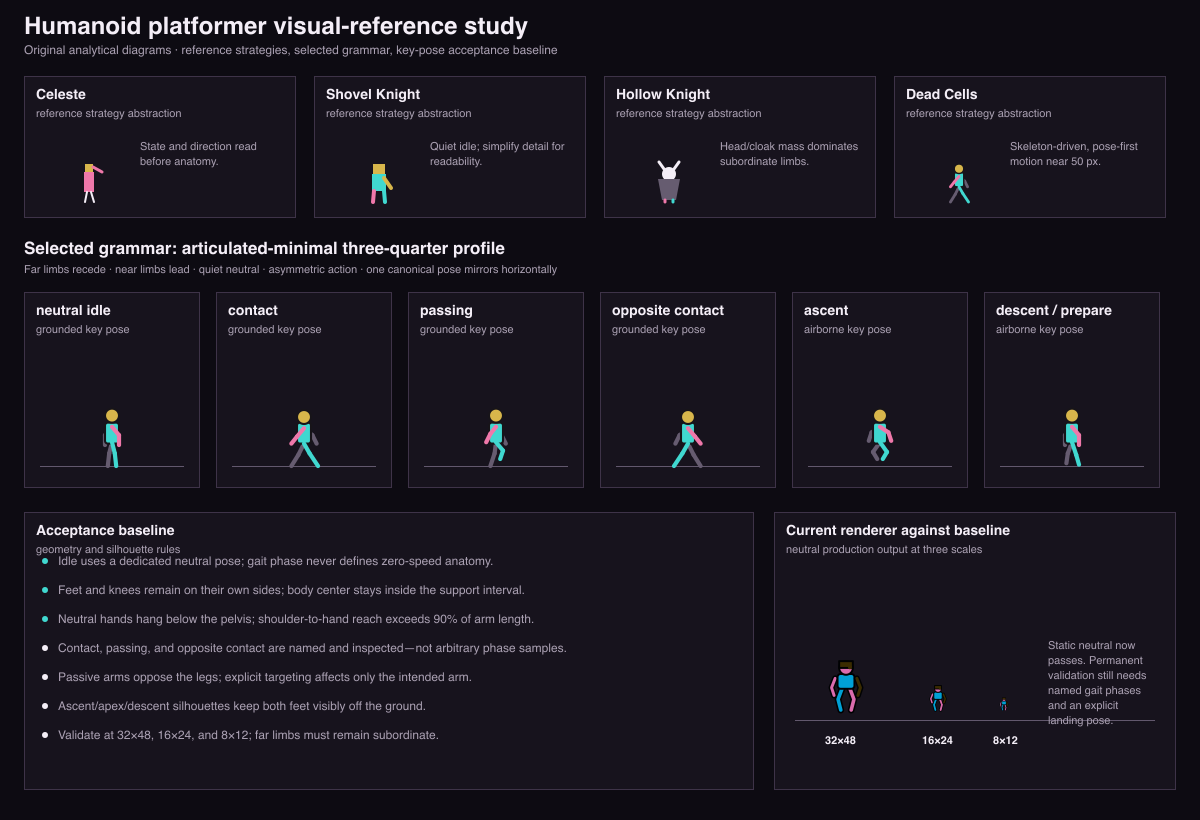
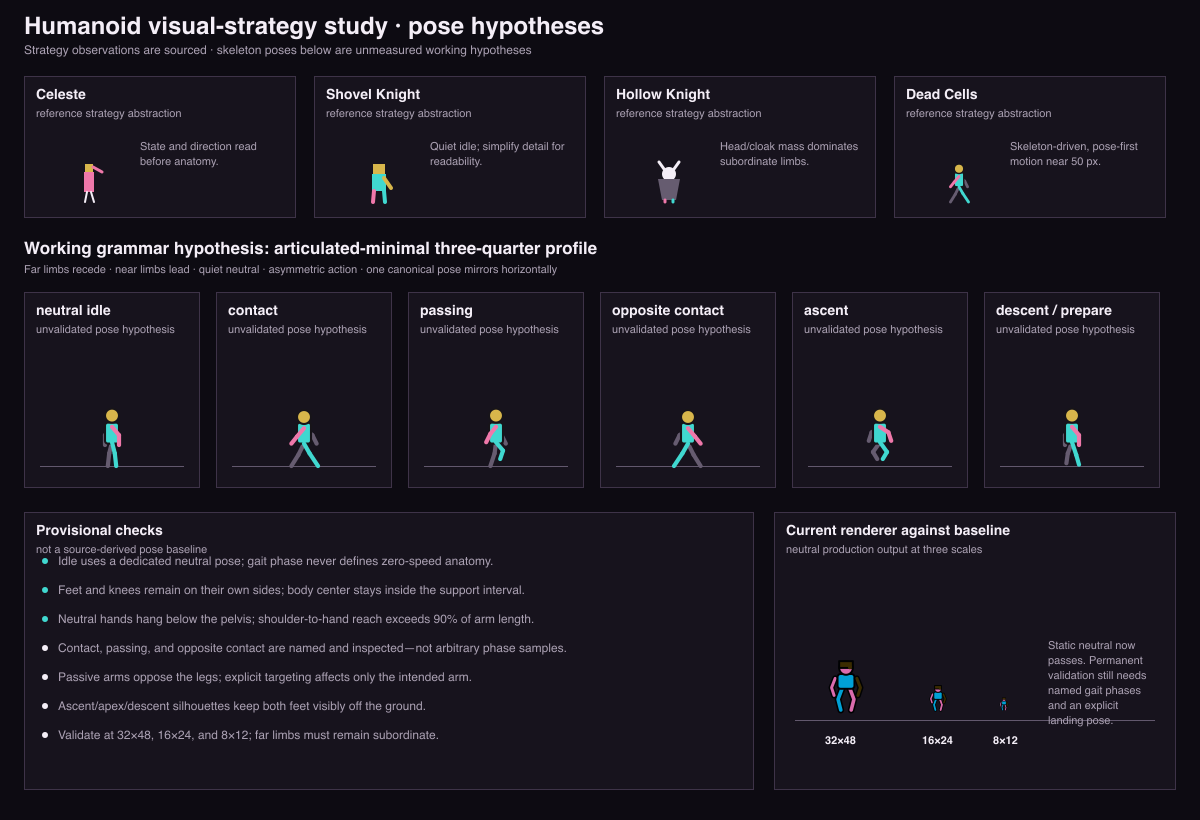
docs: add source-backed humanoid pose examples

diff --git a/benchmarks/_scripts/humanoid-reference-study-render.ts b/benchmarks/_scripts/humanoid-reference-study-render.ts
@@ -233,11 +233,11 @@ ctx.fillStyle = colors.background;
 ctx.fillRect(0, 0, WIDTH, HEIGHT);
 ctx.fillStyle = colors.text;
 ctx.font = 'bold 24px sans-serif';
-ctx.fillText('Humanoid platformer visual-reference study', 24, 34);
+ctx.fillText('Humanoid visual-strategy study · pose hypotheses', 24, 34);
 ctx.fillStyle = colors.muted;
 ctx.font = '12px sans-serif';
 ctx.fillText(
-  'Original analytical diagrams · reference strategies, selected grammar, key-pose acceptance baseline',
+  'Strategy observations are sourced · skeleton poses below are unmeasured working hypotheses',
   24,
   54,
 );
@@ -259,7 +259,7 @@ strategies.forEach(([title, kind, note], index) => {
 
 ctx.fillStyle = colors.text;
 ctx.font = 'bold 17px sans-serif';
-ctx.fillText('Selected grammar: articulated-minimal three-quarter profile', 24, 254);
+ctx.fillText('Working grammar hypothesis: articulated-minimal three-quarter profile', 24, 254);
 ctx.fillStyle = colors.muted;
 ctx.font = '11px sans-serif';
 ctx.fillText(
@@ -278,7 +278,7 @@ const keyPoses = [
 ] as const;
 keyPoses.forEach(([label, pose], index) => {
   const x = 24 + index * 192;
-  panel(ctx, x, 292, 176, 196, label, index < 4 ? 'grounded key pose' : 'airborne key pose');
+  panel(ctx, x, 292, 176, 196, label, 'unvalidated pose hypothesis');
   ctx.strokeStyle = colors.ground;
   ctx.beginPath();
   ctx.moveTo(x + 16, 466.5);
@@ -287,7 +287,7 @@ keyPoses.forEach(([label, pose], index) => {
   drawFigure(ctx, x + 88, 466, pose);
 });
 
-panel(ctx, 24, 512, 730, 278, 'Acceptance baseline', 'geometry and silhouette rules');
+panel(ctx, 24, 512, 730, 278, 'Provisional checks', 'not a source-derived pose baseline');
 const rules = [
   'Idle uses a dedicated neutral pose; gait phase never defines zero-speed anatomy.',
   'Feet and knees remain on their own sides; body center stays inside the support interval.',
@@ -343,4 +343,3 @@ if (!first.equals(repeat)) {
 }
 writeFileSync(OUTPUT, first);
 console.log(`ok ${OUTPUT} ${(first.byteLength / 1024).toFixed(1)} KB`);
-

diff --git a/docs/research/humanoid-platformer-visual-reference.md b/docs/research/humanoid-platformer-visual-reference.md
@@ -1,7 +1,7 @@
 # Humanoid Visual Reference for 2D Platformers
 
 > Investigated: 2026-07-29  
-> Status: **COMPLETE — validation baseline selected**
+> Status: **REVISED — strategy baseline selected; measured pose baseline pending**
 
 ## Question
 
@@ -14,9 +14,10 @@ standard. As a result, the first validation sheet compared the generated
 humanoid mainly against itself and failed to reject crossed idle legs and
 hands-on-hips arms.
 
-This note supplies the missing visual baseline. The accompanying
+This note supplies a visual-strategy baseline. The accompanying
 `benchmarks/character-body-plans/humanoid-reference-study.png` contains
-original analytical diagrams, not copied game sprites.
+original analytical diagrams, not copied game sprites. Those diagrams are pose
+hypotheses, not traced or measured reference poses.
 
 ## Evidence standard
 
@@ -115,6 +116,111 @@ What we do not adopt:
 
 - Collapsing the base humanoid into an opaque sprite-like mass at 32 × 48.
 
+## Pose-specific original examples acquired
+
+These sources expose complete or named source frames and are therefore more
+useful for pose validation than promotional screenshots.
+
+### Godot 2D Platformer robot — open source, state-mapped sheet
+
+The Godot demo repository includes an `8 × 8` robot sheet and the scene file
+that assigns exact frames:
+
+- run: frames `0–9`;
+- idle: frames `30–33`;
+- jump: frame `45`;
+- fall: frame `48`;
+- separate weapon variants are also named.
+
+This is the strongest current source for identifying real contact/passing
+frames and comparing jump against fall. The run leans into travel, separates
+the feet strongly, and uses opposing arm/leg motion. Jump and fall are different
+silhouettes rather than a walking pose lifted off the floor.
+
+Sources:
+
+- [Godot robot sheet](https://github.com/godotengine/godot-demo-projects/blob/master/2d/platformer/player/robot.webp)
+- [Godot frame assignments](https://github.com/godotengine/godot-demo-projects/blob/master/2d/platformer/player/player.tscn)
+- [Godot demo repository and MIT license](https://github.com/godotengine/godot-demo-projects)
+
+### Kenney Platformer Characters — CC0 pose catalog
+
+Kenney's sheet provides standing, idle, two walk poses, jump, fall, skid,
+crouch, climb, and action poses. The individual soldier images are `80 × 110`,
+so they are proportion references rather than direct pixel-scale references.
+
+Useful observations:
+
+- standing keeps both feet visibly grounded;
+- jump gathers and angles the legs while raising one arm;
+- fall opens the arms and extends/separates the legs;
+- action poses are deliberately more asymmetric than neutral poses.
+
+Sources:
+
+- [Original Kenney platformer character sheet](https://commons.wikimedia.org/wiki/File:Kenney.nl_platformer_characters_-_player_vector.svg)
+- [CC0 license record](https://commons.wikimedia.org/wiki/File:Kenney.nl_platformer_characters_-_player_vector.svg#Licensing)
+
+### Phaser tutorial character — exact `32 × 48` scale
+
+Phaser's official introductory platformer uses a nine-frame `288 × 48` sheet:
+four frames walking left, one front-facing idle, and four walking right. This
+is an unusually direct scale comparison because every frame is exactly our
+nominal `32 × 48`.
+
+The character demonstrates how little anatomy survives at that size: the torso
+and head carry identity, while each limb is only a few pixels. It is useful as
+a minimum-readability control, not as an anatomical model. The tutorial does
+not assign distinct jump/fall artwork, so it is also an example of the visual
+ambiguity we should avoid.
+
+Source:
+
+- [Official Phaser tutorial and frame mapping](https://docs.phaser.io/phaser/getting-started/making-your-first-phaser-game)
+
+The Phaser examples repository explicitly warns that its example assets are not
+generally licensed for reuse. The sheet may be inspected but must not be copied
+into this repository.
+
+### OpenGameArt articulated cyborg — CC0 temporal sequences
+
+This side-view/three-quarter humanoid includes 15 idle frames, 15 run frames,
+and 15 jump frames as separate PNGs. It provides a genuine temporal sequence
+for studying torso lean and leg recovery. Its gun arm makes it unsuitable as a
+neutral-arm reference.
+
+Source:
+
+- [CC0 articulated cyborg sequences](https://opengameart.org/content/cc0-2d-douche-cyborg-jump-run-shoot-idle)
+
+### OpenGameArt James — CC0 `16 × 16` control
+
+This sheet includes idle, four-frame side walk, jump, fall, crouch, climb,
+action, hit, and death at `16 × 16`. It is useful for the smallest-scale
+silhouette test: most joint-level anatomy disappears entirely.
+
+Source:
+
+- [CC0 16-pixel character sheet](https://opengameart.org/content/pixel-character-02-james)
+
+## What the new examples invalidate
+
+The six analytical figures in the first study image were synthesized from
+general walk-cycle conventions. They were not derived frame-by-frame from
+Celeste, Shovel Knight, Hollow Knight, or Dead Cells. They therefore cannot be
+used as approval targets.
+
+In particular:
+
+- the proposed passing pose has not been measured against a real source frame;
+- the ascent/descent pair lacks a source-backed landing transition;
+- the diagrams imply exposed anatomy that Hollow Knight and Celeste do not
+  actually provide;
+- the Shovel Knight source was an asymmetric NPC-with-tool idle, not a neutral
+  player pose.
+
+The diagram is retained only as a clearly labelled working hypothesis.
+
 ## Selected visual grammar
 
 The production target is an **articulated-minimal three-quarter profile**:
@@ -201,13 +307,19 @@ Every future humanoid candidate sheet must include:
 - production/prototype byte comparison;
 - geometry-level neutral-pose tests.
 
-## Decision
+## Revised decision
 
-The existing procedural approach remains viable, but approval is now against
-this reference baseline rather than against a self-generated sheet.
+The existing procedural approach remains viable, but pose approval requires a
+new measured frame table based primarily on the Godot run/jump/fall frames and
+the CC0 Kenney and OpenGameArt sequences. Strategy-level observations from
+commercial games remain supporting context only.
 
-The corrected neutral feet and arms satisfy the static invariants. The current
-permanent sheet still needs to be expanded from two arbitrary stride samples
-to named contact/passing/opposite-contact poses and to add an explicit landing
-panel before the humanoid should be considered visually complete.
+The corrected neutral feet and arms satisfy the static invariants. Before the
+humanoid is visually complete:
 
+1. identify contact, recoil, passing, and high-point frames in at least two
+   source sequences;
+2. record normalized head, shoulder, hip, knee, foot, elbow, and hand positions;
+3. derive target ranges from those observations;
+4. replace the hypothesis diagrams with measured overlays;
+5. expand the permanent sheet with named gait phases and landing.
